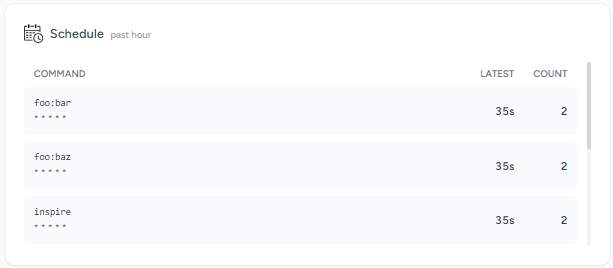
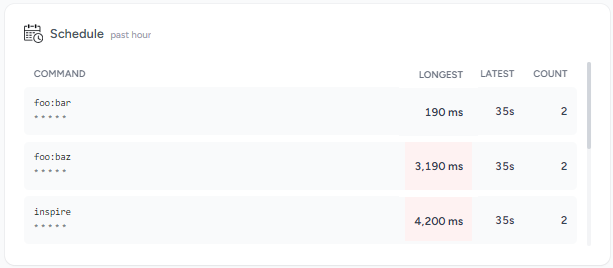
patch

diff --git a/src/resources/views/schedule.blade.php b/src/resources/views/schedule.blade.php
@@ -23,6 +23,7 @@
                     <x-pulse::thead>
                         <tr>
                             <x-pulse::th>Command</x-pulse::th>
+                            <x-pulse::th class="text-right">Longest</x-pulse::th>
                             <x-pulse::th class="text-right">Latest</x-pulse::th>
                             <x-pulse::th class="text-right">Count</x-pulse::th>
                         </tr>
@@ -38,6 +39,13 @@
                                     <p class="mt-1 text-xs text-gray-500 dark:text-gray-400 truncate" title="{{ $run->expression }}">
                                         {{ $run->expression }}
                                     </p>
+                                </x-pulse::td>
+                                <x-pulse::td numeric @class(['text-gray-700 dark:text-gray-300 font-bold', 'bg-red-50' => !$run->success || $run->duration > 1000])>
+                                    @if ($config['sample_rate'] < 1)
+                                        <span title="Sample rate: {{ $config['sample_rate'] }}">~{{ isset($run->duration) ? number_format($run->duration) . ' ms' : '-' }}</span>
+                                    @else
+                                        {{ isset($run->duration) ? number_format($run->duration) . ' ms' : '-' }}
+                                    @endif
                                 </x-pulse::td>
                                 <x-pulse::td numeric @class(['text-gray-700 dark:text-gray-300 font-bold', 'bg-red-50' => !$run->success])>
                                     @if ($config['sample_rate'] < 1)

diff --git a/src/Recorders/ScheduleRecorder.php b/src/Recorders/ScheduleRecorder.php
@@ -61,7 +61,6 @@ class ScheduleRecorder
                 $event->task->expression, // 20 11 * * *
                 $command, // health:queue-check-heartbeat
                 //$event->task->nextRunDate(), // 2024-09-25 11:00:00
-                //$event instanceof ScheduledTaskFinished ? (int) round($event->runtime * 1000) : null,
                 ($event->task->exitCode === 0 && ! $event instanceof ScheduledTaskFailed) ? true : false,
             ];
 
@@ -71,6 +70,13 @@ class ScheduleRecorder
                 timestamp: $timestamp,
                 value: $timestamp,
             )->max()->count();
+
+            $this->pulse->record(
+                type: 'anourvalar_schedule_duration',
+                key: json_encode($data, flags: JSON_THROW_ON_ERROR),
+                timestamp: $timestamp,
+                value: $event instanceof ScheduledTaskFinished ? (int) ($event->runtime * 1000) : null,
+            )->max();
         });
     }
 }

diff --git a/src/Livewire/Schedule.php b/src/Livewire/Schedule.php
@@ -22,6 +22,7 @@ class Schedule extends Card
                 [$expression, $command, $success] = json_decode($row->key, flags: JSON_THROW_ON_ERROR);
 
                 return (object) [
+                    'key' => $row->key,
                     'expression' => $expression,
                     'command' => $command,
                     'success' => $success,
@@ -31,6 +32,17 @@ class Schedule extends Card
             }),
             'count'
         );
+
+        [$runs2] = $this->remember(
+            fn () => $this->aggregate('anourvalar_schedule_duration', ['max']),
+            'duration'
+        );
+
+        $runs2 = $runs2->pluck(null, 'key');
+        foreach ($runs as &$run) {
+            $run->duration = ($runs2[$run->key] ?? null)?->max;
+        }
+        unset($run);
 
         return view('anourvalar.pulse::schedule', [
             'runs' => $runs,
